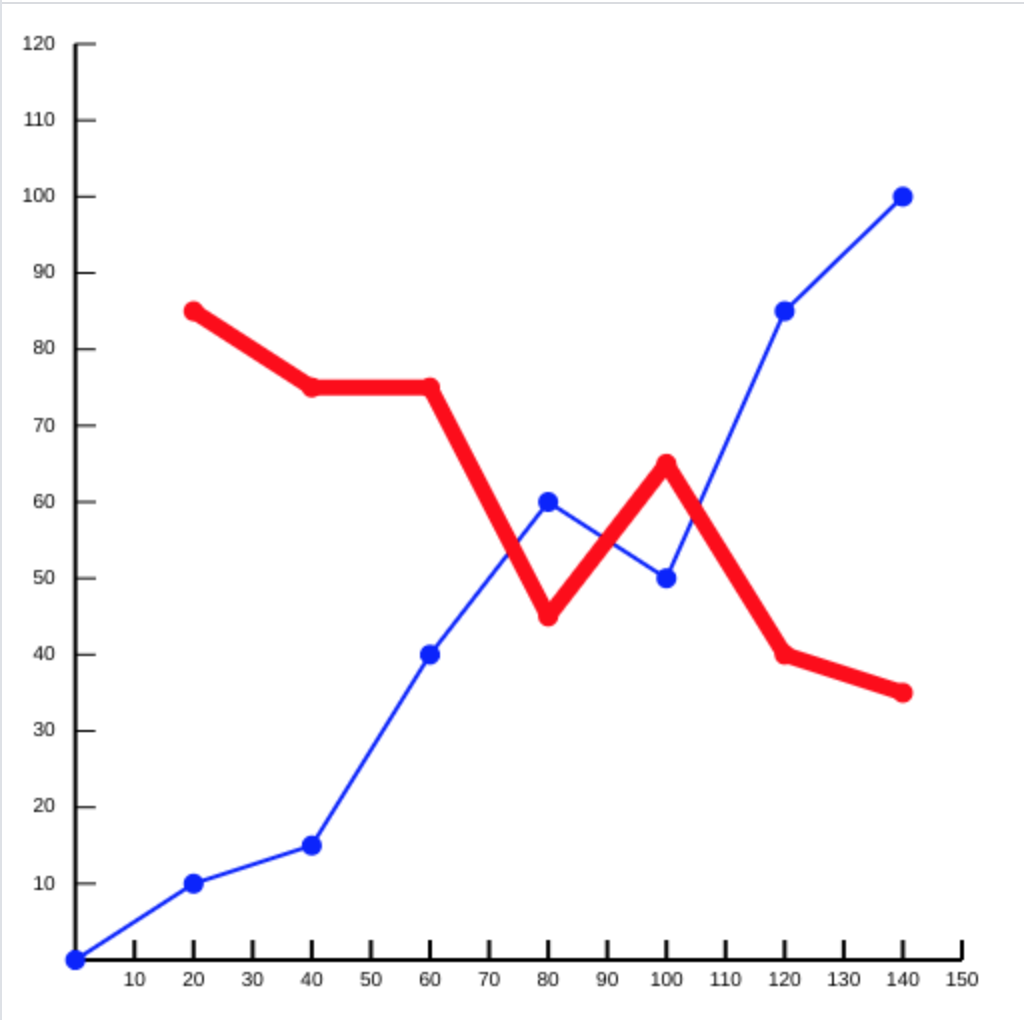
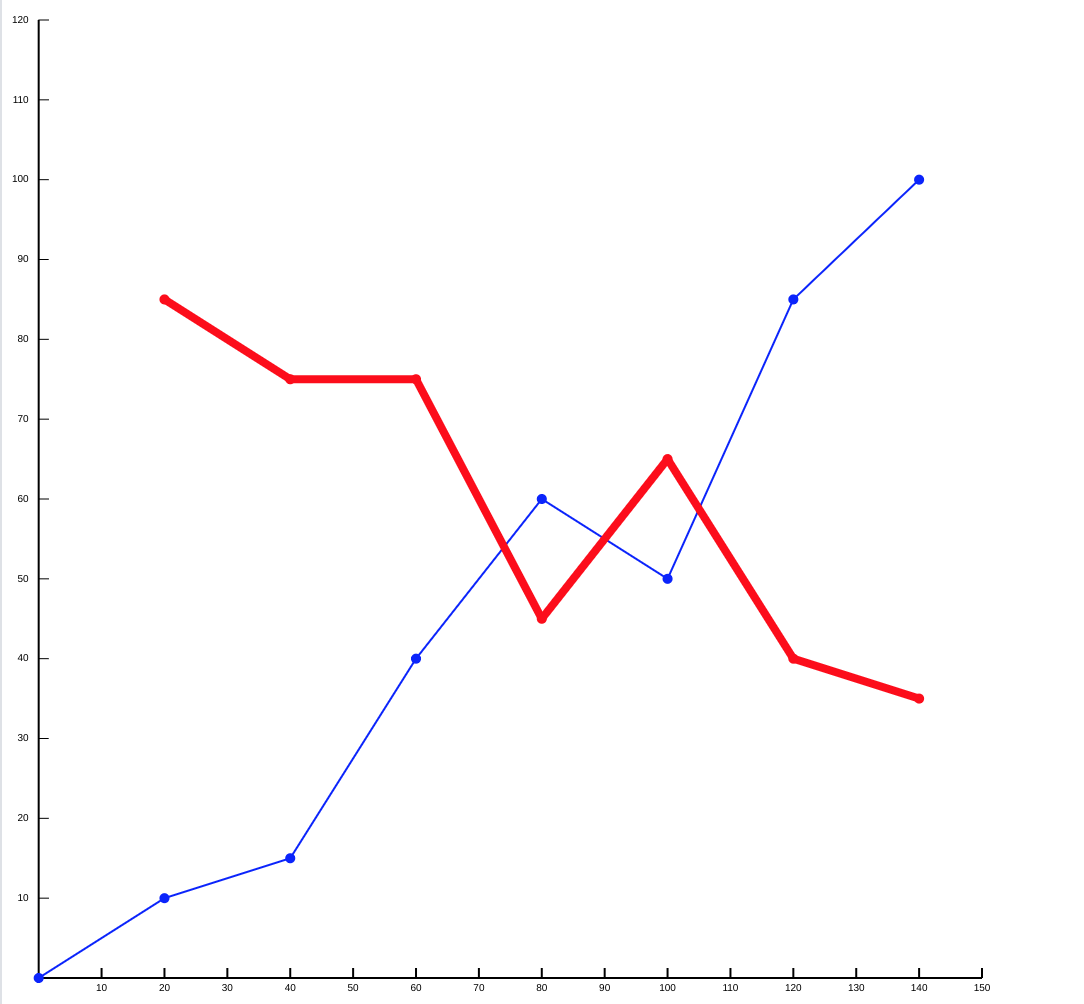
fix retina scaling, typos

Changed region(s): [[0.0, 0.0, 0.9688, 0.988], [0.7188, 0.1853, 0.9062, 0.3396]]

diff --git a/src/Canvas.js b/src/Canvas.js
@@ -2,15 +2,20 @@ import React, { useRef, useEffect } from 'react'
 
 import { DEFAULT_LINE_STYLES } from './constants'
 import { LineChartDrawer } from './LineChartDrawer'
+import { scaleCanvasForHiDpi } from './scalefix'
 
 export const Canvas = ({ chartConfig, chartItems }) => {
-  const { id, height, width, ...lineCharDrawerInput } = chartConfig
+  const { id, height, width, ...lineChartDrawerInput } = chartConfig
 
   const canvasRef = useRef(null)
   useEffect(() => {
     const canvas = canvasRef.current
+
+    // scale the canvas appropriately for retina screens
+    scaleCanvasForHiDpi(canvas, height, width)
+
     const lineChartDrawer = new LineChartDrawer({
-      ...lineCharDrawerInput,
+      ...lineChartDrawerInput,
       canvas
     })
 
@@ -21,7 +26,7 @@ export const Canvas = ({ chartConfig, chartItems }) => {
       } = item
       lineChartDrawer.drawLine(points, lineColor, lineWidth)
     })
-  }, [LineChartDrawer, chartConfig, chartItems])
+  }, [LineChartDrawer, chartConfig, chartItems, scaleCanvasForHiDpi])
 
   return <canvas id={id} height={height} width={width} ref={canvasRef} />
 }

diff --git a/src/scalefix.js b/src/scalefix.js
@@ -1,9 +1,8 @@
-// adjust canvas size for HiDpi screens
-// const scaleCanvasForHiDpi = (canvas, height, width) => {
-//   const ratio = window.devicePixelRatio
-//   canvas.height = height * ratio
-//   canvas.width = width * ratio
+export const scaleCanvasForHiDpi = (canvas, height, width) => {
+  const ratio = window.devicePixelRatio
+  canvas.height = height * ratio
+  canvas.width = width * ratio
 
-//   canvas.style.height = height + 'px'
-//   canvas.style.width = width + 'px'
-// }
+  canvas.style.height = height + 'px'
+  canvas.style.width = width + 'px'
+}

diff --git a/src/LineChartDrawer.js b/src/LineChartDrawer.js
@@ -1,4 +1,10 @@
-import { PADDING, TICK_SIZE, POINT_RADIUS, FONT_HEIGHT } from './constants'
+import {
+  PADDING,
+  TICK_SIZE,
+  POINT_RADIUS,
+  FONT_HEIGHT,
+  FONT
+} from './constants'
 
 export class LineChartDrawer {
   constructor({
@@ -23,6 +29,7 @@ export class LineChartDrawer {
     this.tickSize = TICK_SIZE
     this.pointRadius = POINT_RADIUS
     this.fontHeight = FONT_HEIGHT // prevent axes labels from getting cutoff
+    this.font = FONT
 
     this.context = this.canvas.getContext('2d')
     this.rangeX = this.maxX - this.minY

diff --git a/src/constants.js b/src/constants.js
@@ -1,5 +1,6 @@
-export const PADDING = 10
+export const PADDING = 32
 export const TICK_SIZE = 10
-export const POINT_RADIUS = 5
-export const FONT_HEIGHT = 12
-export const DEFAULT_LINE_STYLES = { lineColor: 'black', lineWidht: 2 }
+export const POINT_RADIUS = 8
+export const FONT_HEIGHT = 16
+export const DEFAULT_LINE_STYLES = { lineColor: 'rebeccapurple', lineWidth: 2 }
+export const FONT = '2rem serif'

diff --git a/README.md b/README.md
@@ -31,13 +31,13 @@ const chartConfig = {
   maxY: 120,
   height: 500,
   width: 500,
-  unitsPerTickX: 10, 
+  unitsPerTickX: 10,
   unitsPerTickY: 10,
   showAxes: true // set to falset to disable ticks on axes
 }
 
 // A single line chart can render multiple lines (see image below)
-// styles is optional and defaults to { lineColor: 'black', lineWidht: 2 }
+// styles is optional and defaults to { lineColor: 'rebeccapurple', lineWidht: 2 }
 const chartItems = [
   {
     styles: { lineColor: 'blue', lineWidth: 2 },
@@ -116,7 +116,6 @@ const App = () => {
 }
 
 export default App
-
 ```
 
 Result:
@@ -164,7 +163,6 @@ This creates a production build of the example `create-react-app` that showcases
 ## TODO:
 
 - fix canvas scaling on HiDpi screens
-
 
 ## License
 
